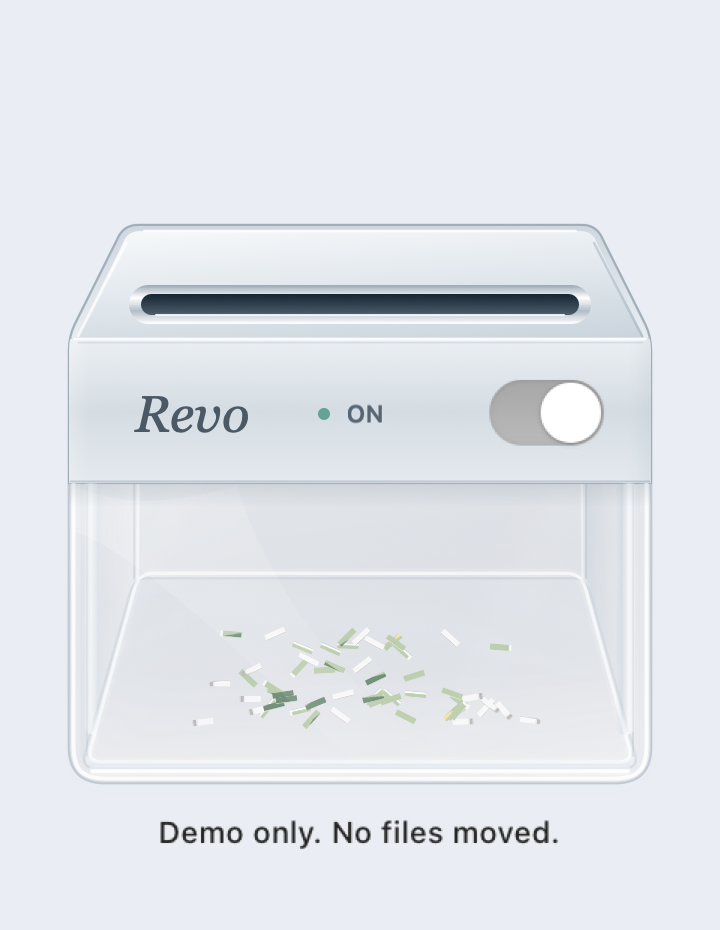
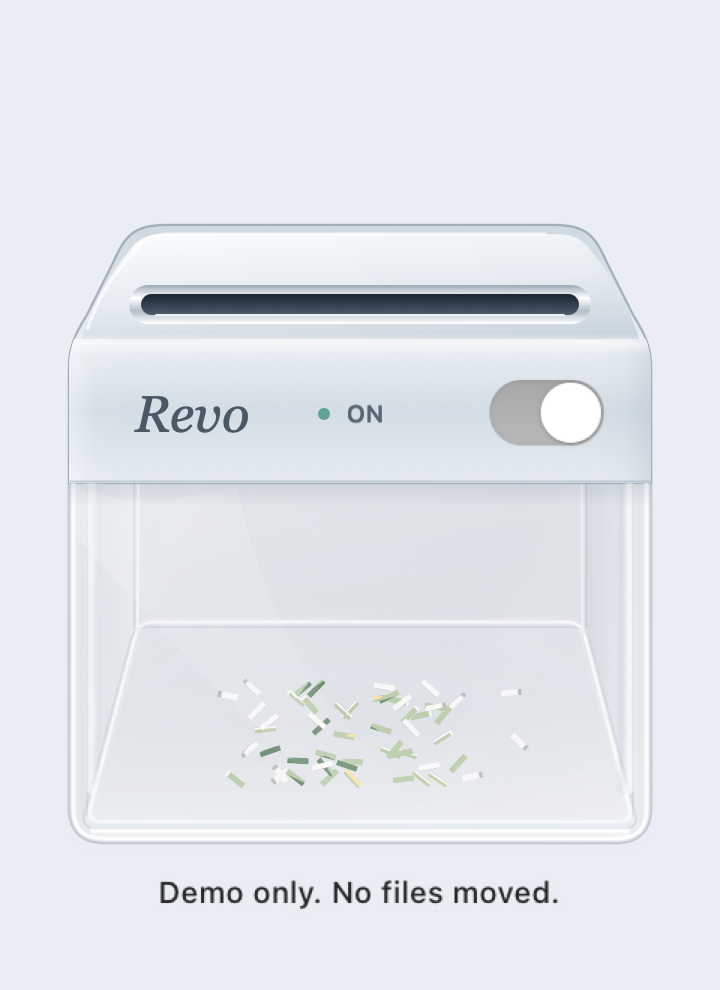
Round the metal shoulders and raise the glass enclosure

diff --git a/Sources/Revo/MachineArtwork.swift b/Sources/Revo/MachineArtwork.swift
@@ -4,15 +4,15 @@ import CoreText
 /// An opaque aluminum head sits above a clear enclosure with refractive edges.
 /// The aperture and animation masks share the same physical coordinates.
 enum MachineArtwork {
-    static let size = NSSize(width: 240, height: 310)
-    static let slotY: CGFloat = 208
+    static let size = NSSize(width: 240, height: 330)
+    static let slotY: CGFloat = 228
     static let paperWidth: CGFloat = 90
     static let paperHeight: CGFloat = 94
-    static let window = CGRect(x: 43, y: 62, width: 154, height: 87)
-    static let shell = CGRect(x: 23, y: 49, width: 194, height: 186)
-    static let glassFrame = CGRect(x: 23, y: 49, width: 194, height: 100)
+    static let window = CGRect(x: 43, y: 62, width: 154, height: 107)
+    static let shell = CGRect(x: 23, y: 49, width: 194, height: 206)
+    static let glassFrame = CGRect(x: 23, y: 49, width: 194, height: 120)
     static let inlet = CGRect(x: 47, y: slotY - 3, width: 146, height: 7)
-    static let switchFrame = CGRect(x: 162, y: 160, width: 40, height: 24)
+    static let switchFrame = CGRect(x: 162, y: 180, width: 40, height: 24)
 
     static func color(_ hex: UInt32, _ alpha: CGFloat = 1) -> NSColor {
         NSColor(calibratedRed: CGFloat((hex >> 16) & 255) / 255,
@@ -58,19 +58,19 @@ enum MachineArtwork {
     /// One silhouette keeps the native backdrop inside the sloped glass enclosure.
     static var outline: CGPath {
         let path = CGMutablePath()
-        path.move(to: CGPoint(x: 46, y: 235))
-        path.addLine(to: CGPoint(x: 194, y: 235))
-        path.addQuadCurve(to: CGPoint(x: 201, y: 230), control: CGPoint(x: 199, y: 235))
-        path.addLine(to: CGPoint(x: 215, y: 202))
-        path.addQuadCurve(to: CGPoint(x: 217, y: 193), control: CGPoint(x: 217, y: 198))
+        path.move(to: CGPoint(x: 56, y: 255))
+        path.addLine(to: CGPoint(x: 184, y: 255))
+        path.addCurve(to: CGPoint(x: 202, y: 243), control1: CGPoint(x: 195, y: 255), control2: CGPoint(x: 198, y: 252))
+        path.addLine(to: CGPoint(x: 211, y: 225))
+        path.addCurve(to: CGPoint(x: 217, y: 207), control1: CGPoint(x: 216, y: 217), control2: CGPoint(x: 217, y: 213))
         path.addLine(to: CGPoint(x: 217, y: 61))
         path.addQuadCurve(to: CGPoint(x: 205, y: 49), control: CGPoint(x: 217, y: 49))
         path.addLine(to: CGPoint(x: 35, y: 49))
         path.addQuadCurve(to: CGPoint(x: 23, y: 61), control: CGPoint(x: 23, y: 49))
-        path.addLine(to: CGPoint(x: 23, y: 193))
-        path.addQuadCurve(to: CGPoint(x: 25, y: 202), control: CGPoint(x: 23, y: 198))
-        path.addLine(to: CGPoint(x: 39, y: 230))
-        path.addQuadCurve(to: CGPoint(x: 46, y: 235), control: CGPoint(x: 41, y: 235))
+        path.addLine(to: CGPoint(x: 23, y: 207))
+        path.addCurve(to: CGPoint(x: 29, y: 225), control1: CGPoint(x: 23, y: 213), control2: CGPoint(x: 24, y: 217))
+        path.addLine(to: CGPoint(x: 38, y: 243))
+        path.addCurve(to: CGPoint(x: 56, y: 255), control1: CGPoint(x: 42, y: 252), control2: CGPoint(x: 45, y: 255))
         path.closeSubpath()
         return path
     }
@@ -78,17 +78,17 @@ enum MachineArtwork {
     /// The head includes its bevels and end caps; every interior pixel is opaque.
     static var headOutline: CGPath {
         let path = CGMutablePath()
-        path.move(to: CGPoint(x: 46, y: 235))
-        path.addLine(to: CGPoint(x: 194, y: 235))
-        path.addQuadCurve(to: CGPoint(x: 201, y: 230), control: CGPoint(x: 199, y: 235))
-        path.addLine(to: CGPoint(x: 215, y: 202))
-        path.addQuadCurve(to: CGPoint(x: 217, y: 193), control: CGPoint(x: 217, y: 198))
-        path.addLine(to: CGPoint(x: 217, y: 149))
-        path.addLine(to: CGPoint(x: 23, y: 149))
-        path.addLine(to: CGPoint(x: 23, y: 193))
-        path.addQuadCurve(to: CGPoint(x: 25, y: 202), control: CGPoint(x: 23, y: 198))
-        path.addLine(to: CGPoint(x: 39, y: 230))
-        path.addQuadCurve(to: CGPoint(x: 46, y: 235), control: CGPoint(x: 41, y: 235))
+        path.move(to: CGPoint(x: 56, y: 255))
+        path.addLine(to: CGPoint(x: 184, y: 255))
+        path.addCurve(to: CGPoint(x: 202, y: 243), control1: CGPoint(x: 195, y: 255), control2: CGPoint(x: 198, y: 252))
+        path.addLine(to: CGPoint(x: 211, y: 225))
+        path.addCurve(to: CGPoint(x: 217, y: 207), control1: CGPoint(x: 216, y: 217), control2: CGPoint(x: 217, y: 213))
+        path.addLine(to: CGPoint(x: 217, y: 169))
+        path.addLine(to: CGPoint(x: 23, y: 169))
+        path.addLine(to: CGPoint(x: 23, y: 207))
+        path.addCurve(to: CGPoint(x: 29, y: 225), control1: CGPoint(x: 23, y: 213), control2: CGPoint(x: 24, y: 217))
+        path.addLine(to: CGPoint(x: 38, y: 243))
+        path.addCurve(to: CGPoint(x: 56, y: 255), control1: CGPoint(x: 42, y: 252), control2: CGPoint(x: 45, y: 255))
         path.closeSubpath()
         return path
     }
@@ -96,8 +96,8 @@ enum MachineArtwork {
     /// The glass material stops beneath the solid metal head.
     static var glassOutline: CGPath {
         let path = CGMutablePath()
-        path.move(to: CGPoint(x: 23, y: 149))
-        path.addLine(to: CGPoint(x: 217, y: 149))
+        path.move(to: CGPoint(x: 23, y: 169))
+        path.addLine(to: CGPoint(x: 217, y: 169))
         path.addLine(to: CGPoint(x: 217, y: 61))
         path.addQuadCurve(to: CGPoint(x: 205, y: 49), control: CGPoint(x: 217, y: 49))
         path.addLine(to: CGPoint(x: 35, y: 49))
@@ -107,7 +107,7 @@ enum MachineArtwork {
     }
 
     /// Depth edges converge on the same point as the metal top plane.
-    private static let vanishingPoint = CGPoint(x: 120, y: 387)
+    private static let vanishingPoint = CGPoint(x: 120, y: 407)
     private static func recede(_ point: CGPoint, depth: CGFloat = 1) -> CGPoint {
         let scale = 1 - 0.19 * depth
         return CGPoint(x: vanishingPoint.x + (point.x - vanishingPoint.x) * scale,
@@ -152,7 +152,7 @@ enum MachineArtwork {
         NSBezierPath(cgPath: glassOutline).addClip()
         let left = CGPoint(x: 27, y: 54), right = CGPoint(x: 213, y: 54)
         let backLeft = recede(left), backRight = recede(right)
-        let topLeft = CGPoint(x: 27, y: 149), topRight = CGPoint(x: 213, y: 149)
+        let topLeft = CGPoint(x: 27, y: 169), topRight = CGPoint(x: 213, y: 169)
 
         // Rear uprights and side walls are visible through the front pane.
         gradient(polygon([left, backLeft, recede(topLeft), topLeft]),
@@ -161,8 +161,8 @@ enum MachineArtwork {
                  [(0x849CAF, 0.14), (0xE6F1FA, 0.035), (0xFFFFFF, 0.16)], 0)
         line(backLeft, recede(topLeft), color: 0x7E94A7, alpha: 0.23, width: 0.65)
         line(backRight, recede(topRight), color: 0x7E94A7, alpha: 0.26, width: 0.65)
-        line(CGPoint(x: backLeft.x + 1.2, y: backLeft.y), recede(CGPoint(x: 29, y: 149)), color: 0xFFFFFF, alpha: 0.56, width: 1)
-        line(CGPoint(x: backRight.x - 1.2, y: backRight.y), recede(CGPoint(x: 211, y: 149)), color: 0xFFFFFF, alpha: 0.46, width: 0.8)
+        line(CGPoint(x: backLeft.x + 1.2, y: backLeft.y), recede(CGPoint(x: 29, y: 169)), color: 0xFFFFFF, alpha: 0.56, width: 1)
+        line(CGPoint(x: backRight.x - 1.2, y: backRight.y), recede(CGPoint(x: 211, y: 169)), color: 0xFFFFFF, alpha: 0.46, width: 0.8)
 
         // The bottom is a receding plane, with its back edge higher and narrower.
         let floor = roundedPolygon([left, right, backRight, backLeft], radius: 5)
@@ -192,35 +192,38 @@ enum MachineArtwork {
         gradient(head, [(0xC4CED8, 1), (0xE6ECF1, 1), (0xA6B2BF, 1)], -90)
         stroke(head, 0x8997A5, 0.85, 0.7)
 
-        // The top plane and front face meet at one continuous folded edge.
+        // A softly rolled shoulder joins the receding lid to the front face.
         let top = NSBezierPath()
-        top.move(to: CGPoint(x: 25, y: 197))
-        top.line(to: CGPoint(x: 41, y: 229))
-        top.curve(to: CGPoint(x: 47, y: 233), controlPoint1: CGPoint(x: 42, y: 232), controlPoint2: CGPoint(x: 44, y: 233))
-        top.line(to: CGPoint(x: 193, y: 233))
-        top.curve(to: CGPoint(x: 199, y: 229), controlPoint1: CGPoint(x: 196, y: 233), controlPoint2: CGPoint(x: 198, y: 232))
-        top.line(to: CGPoint(x: 215, y: 197)); top.close()
-        gradient(top, [(0xF4F6F8, 1), (0xD9E1E8, 1), (0xBEC9D3, 1)], -86)
-        line(CGPoint(x: 48, y: 233), CGPoint(x: 192, y: 233), color: 0xFFFFFF, alpha: 0.88, width: 0.8)
-        line(CGPoint(x: 26, y: 198), CGPoint(x: 42, y: 229), color: 0xFFFFFF, alpha: 0.75, width: 1)
-        line(CGPoint(x: 214, y: 198), CGPoint(x: 198, y: 229), color: 0x738495, alpha: 0.35, width: 0.8)
+        top.move(to: CGPoint(x: 27, y: 217))
+        top.curve(to: CGPoint(x: 42, y: 245), controlPoint1: CGPoint(x: 29, y: 225), controlPoint2: CGPoint(x: 36, y: 238))
+        top.curve(to: CGPoint(x: 57, y: 252), controlPoint1: CGPoint(x: 46, y: 251), controlPoint2: CGPoint(x: 49, y: 252))
+        top.line(to: CGPoint(x: 183, y: 252))
+        top.curve(to: CGPoint(x: 198, y: 245), controlPoint1: CGPoint(x: 191, y: 252), controlPoint2: CGPoint(x: 194, y: 251))
+        top.curve(to: CGPoint(x: 213, y: 217), controlPoint1: CGPoint(x: 204, y: 238), controlPoint2: CGPoint(x: 211, y: 225))
+        top.close()
+        gradient(top, [(0xF8FAFC, 1), (0xDFE6ED, 1), (0xBCC8D3, 1)], -86)
+        let topHighlight = NSBezierPath()
+        topHighlight.move(to: CGPoint(x: 29, y: 220))
+        topHighlight.curve(to: CGPoint(x: 44, y: 245), controlPoint1: CGPoint(x: 33, y: 232), controlPoint2: CGPoint(x: 39, y: 240))
+        topHighlight.curve(to: CGPoint(x: 58, y: 252), controlPoint1: CGPoint(x: 48, y: 251), controlPoint2: CGPoint(x: 51, y: 252))
+        topHighlight.line(to: CGPoint(x: 182, y: 252))
+        stroke(topHighlight, 0xFFFFFF, 0.67, 1.1)
 
         // This is the full structural face, with no inset plate or decorative capsule.
         let face = NSBezierPath()
-        face.move(to: CGPoint(x: 23, y: 197))
-        face.line(to: CGPoint(x: 217, y: 197))
-        face.line(to: CGPoint(x: 217, y: 149))
-        face.line(to: CGPoint(x: 23, y: 149))
+        face.move(to: CGPoint(x: 23, y: 217))
+        face.line(to: CGPoint(x: 217, y: 217))
+        face.line(to: CGPoint(x: 217, y: 169))
+        face.line(to: CGPoint(x: 23, y: 169))
         face.close()
         NSGraphicsContext.saveGraphicsState()
         head.addClip()
-        gradient(face, [(0xE6EBF0, 1), (0xCBD4DC, 1), (0xDDE3EA, 1)], -90)
-        gradient(NSBezierPath(rect: NSRect(x: 23, y: 149, width: 7, height: 48)), [(0xFFFFFF, 0.22), (0xFFFFFF, 0)], 0)
-        gradient(NSBezierPath(rect: NSRect(x: 210, y: 149, width: 7, height: 48)), [(0x718494, 0), (0x718494, 0.10)], 0)
-        line(CGPoint(x: 25, y: 197), CGPoint(x: 215, y: 197), color: 0xFFFFFF, alpha: 0.87, width: 0.9)
-        line(CGPoint(x: 26, y: 195.8), CGPoint(x: 214, y: 195.8), color: 0x718291, alpha: 0.20, width: 0.55)
-        line(CGPoint(x: 23.5, y: 149.5), CGPoint(x: 216.5, y: 149.5), color: 0x6F8192, alpha: 0.38, width: 0.7)
-        text("Revo", NSPoint(x: 45, y: 162), NSFont(name: "Georgia-Italic", size: 17) ?? .systemFont(ofSize: 17), 0x3B4653)
+        gradient(face, [(0xE7EDF2, 1), (0xCAD4DE, 1), (0xDFE6ED, 1)], -90)
+        gradient(NSBezierPath(rect: NSRect(x: 23, y: 169, width: 17, height: 48)), [(0xFFFFFF, 0.40), (0xFFFFFF, 0.06), (0xFFFFFF, 0)], 0)
+        gradient(NSBezierPath(rect: NSRect(x: 200, y: 169, width: 17, height: 48)), [(0x718494, 0), (0x718494, 0.04), (0x718494, 0.17)], 0)
+        gradient(NSBezierPath(rect: NSRect(x: 24, y: 212, width: 192, height: 7)), [(0xFFFFFF, 0), (0xFFFFFF, 0.48), (0xFFFFFF, 0)], -90)
+        line(CGPoint(x: 23.5, y: 169.5), CGPoint(x: 216.5, y: 169.5), color: 0x6F8192, alpha: 0.38, width: 0.7)
+        text("Revo", NSPoint(x: 45, y: 182), NSFont(name: "Georgia-Italic", size: 17) ?? .systemFont(ofSize: 17), 0x3B4653)
         NSGraphicsContext.restoreGraphicsState()
 
         // The inlet and shutter share geometry with the paper clipping plane.
@@ -238,32 +241,32 @@ enum MachineArtwork {
         // Front edges stay vertical; depth belongs to the side walls and floor behind them.
         gradient(front, [(0xFFFFFF, 0.11), (0xE4EFF9, 0.015), (0xFFFFFF, 0.04), (0xFFFFFF, 0.15)], -83)
         let rim = NSBezierPath()
-        rim.move(to: CGPoint(x: 24.5, y: 149))
+        rim.move(to: CGPoint(x: 24.5, y: 169))
         rim.line(to: CGPoint(x: 24.5, y: 62))
         rim.curve(to: CGPoint(x: 36, y: 50.5), controlPoint1: CGPoint(x: 24.5, y: 53), controlPoint2: CGPoint(x: 27.5, y: 50.5))
         rim.line(to: CGPoint(x: 204, y: 50.5))
         rim.curve(to: CGPoint(x: 215.5, y: 62), controlPoint1: CGPoint(x: 212.5, y: 50.5), controlPoint2: CGPoint(x: 215.5, y: 53))
-        rim.line(to: CGPoint(x: 215.5, y: 149))
+        rim.line(to: CGPoint(x: 215.5, y: 169))
         stroke(rim, 0xFFFFFF, 0.16, 4.5)
         stroke(rim, 0xFFFFFF, 0.83, 1.3)
-        line(CGPoint(x: 29, y: 58), CGPoint(x: 29, y: 148), color: 0x9BB0C2, alpha: 0.25, width: 0.65)
-        line(CGPoint(x: 211, y: 58), CGPoint(x: 211, y: 148), color: 0x8FA5B9, alpha: 0.28, width: 0.65)
+        line(CGPoint(x: 29, y: 58), CGPoint(x: 29, y: 168), color: 0x9BB0C2, alpha: 0.25, width: 0.65)
+        line(CGPoint(x: 211, y: 58), CGPoint(x: 211, y: 168), color: 0x8FA5B9, alpha: 0.28, width: 0.65)
 
         // Broad, low-contrast reflections merge into the clear center.
         let reflection = NSBezierPath()
-        reflection.move(to: CGPoint(x: 24, y: 148))
-        reflection.curve(to: CGPoint(x: 79, y: 148), controlPoint1: CGPoint(x: 43, y: 141), controlPoint2: CGPoint(x: 55, y: 142))
+        reflection.move(to: CGPoint(x: 24, y: 168))
+        reflection.curve(to: CGPoint(x: 79, y: 168), controlPoint1: CGPoint(x: 43, y: 161), controlPoint2: CGPoint(x: 55, y: 162))
         reflection.curve(to: CGPoint(x: 153, y: 54), controlPoint1: CGPoint(x: 93, y: 103), controlPoint2: CGPoint(x: 128, y: 69))
         reflection.line(to: CGPoint(x: 119, y: 54))
-        reflection.curve(to: CGPoint(x: 24, y: 133), controlPoint1: CGPoint(x: 93, y: 81), controlPoint2: CGPoint(x: 44, y: 128))
+        reflection.curve(to: CGPoint(x: 24, y: 153), controlPoint1: CGPoint(x: 93, y: 81), controlPoint2: CGPoint(x: 44, y: 128))
         reflection.close()
         gradient(reflection, [(0xFFFFFF, 0.20), (0xFFFFFF, 0.015)], -48)
-        gradient(rounded(NSRect(x: 28, y: 65, width: 7, height: 90), 3.5), [(0xFFFFFF, 0.04), (0xFFFFFF, 0.58), (0xB8D1E6, 0.10), (0xFFFFFF, 0.02)], 0)
-        gradient(rounded(NSRect(x: 205, y: 65, width: 7, height: 90), 3.5), [(0xFFFFFF, 0.015), (0x98AFC3, 0.20), (0xFFFFFF, 0.70), (0xFFFFFF, 0.03)], 0)
+        gradient(rounded(NSRect(x: 28, y: 65, width: 7, height: 110), 3.5), [(0xFFFFFF, 0.04), (0xFFFFFF, 0.58), (0xB8D1E6, 0.10), (0xFFFFFF, 0.02)], 0)
+        gradient(rounded(NSRect(x: 205, y: 65, width: 7, height: 110), 3.5), [(0xFFFFFF, 0.015), (0x98AFC3, 0.20), (0xFFFFFF, 0.70), (0xFFFFFF, 0.03)], 0)
         gradient(rounded(NSRect(x: 30, y: 51, width: 180, height: 6), 2), [(0xFFFFFF, 0.06), (0xC4D8E9, 0.25), (0xFFFFFF, 0.77), (0xFFFFFF, 0.02)])
         line(CGPoint(x: 31, y: 53), CGPoint(x: 209, y: 53), color: 0xFFFFFF, alpha: 0.84, width: 1)
         // A narrow contact shadow separates the solid head from the glass below it.
-        gradient(NSBezierPath(rect: NSRect(x: 23, y: 141, width: 194, height: 8)), [(0x536779, 0.16), (0x536779, 0)], -90)
+        gradient(NSBezierPath(rect: NSRect(x: 23, y: 161, width: 194, height: 8)), [(0x536779, 0.16), (0x536779, 0)], -90)
         NSGraphicsContext.restoreGraphicsState()
     }
 

diff --git a/README.md b/README.md
@@ -9,7 +9,7 @@ A tiny native macOS desktop companion that turns letting go of files into a smal
 
 ## The little machine
 
-A solid silver head, clear glass enclosure, layered edge reflections, and a native on/off switch. A gently elevated viewpoint reveals the receding top plane and a continuous metal front face. The taller silhouette gives the solid head a larger share of the body, with no inset front plate. Larger file previews align with the inlet before feeding into the glass enclosure. The entire head, including its bevels and end caps, is opaque aluminum. The lower enclosure combines subtle native desktop diffusion with a clear center, curved reflections, and a thick liquid-glass rim. Its side walls and floor recede toward the same vanishing point as the metal top, and paper scraps settle across that floor. Reduce Transparency replaces the glass with a solid native backdrop. The metal inlet and glass highlights are drawn in code with AppKit. Core Animation handles the paper feed, cutting, falling scraps, and subtle mechanical feedback. The only branding is Revo, set in Georgia Italic. The compact desktop panel measures 216 × 279 points.
+A solid silver head, clear glass enclosure, layered edge reflections, and a native on/off switch. A gently elevated viewpoint reveals the receding top plane and a continuous metal front face. The metal head has softly rolled shoulders and a continuous front face above a taller glass enclosure. Larger file previews align with the inlet before feeding into the glass enclosure. The entire head, including its bevels and end caps, is opaque aluminum. The lower enclosure combines subtle native desktop diffusion with a clear center, curved reflections, and a thick liquid-glass rim. Its side walls and floor recede toward the same vanishing point as the metal top, and paper scraps settle across that floor. Reduce Transparency replaces the glass with a solid native backdrop. The metal inlet and glass highlights are drawn in code with AppKit. Core Animation handles the paper feed, cutting, falling scraps, and subtle mechanical feedback. The only branding is Revo, set in Georgia Italic. The compact desktop panel measures 216 × 297 points.
 
 - Documents become narrow paper strips.
 - Photos use a thumbnail and break into confetti.
